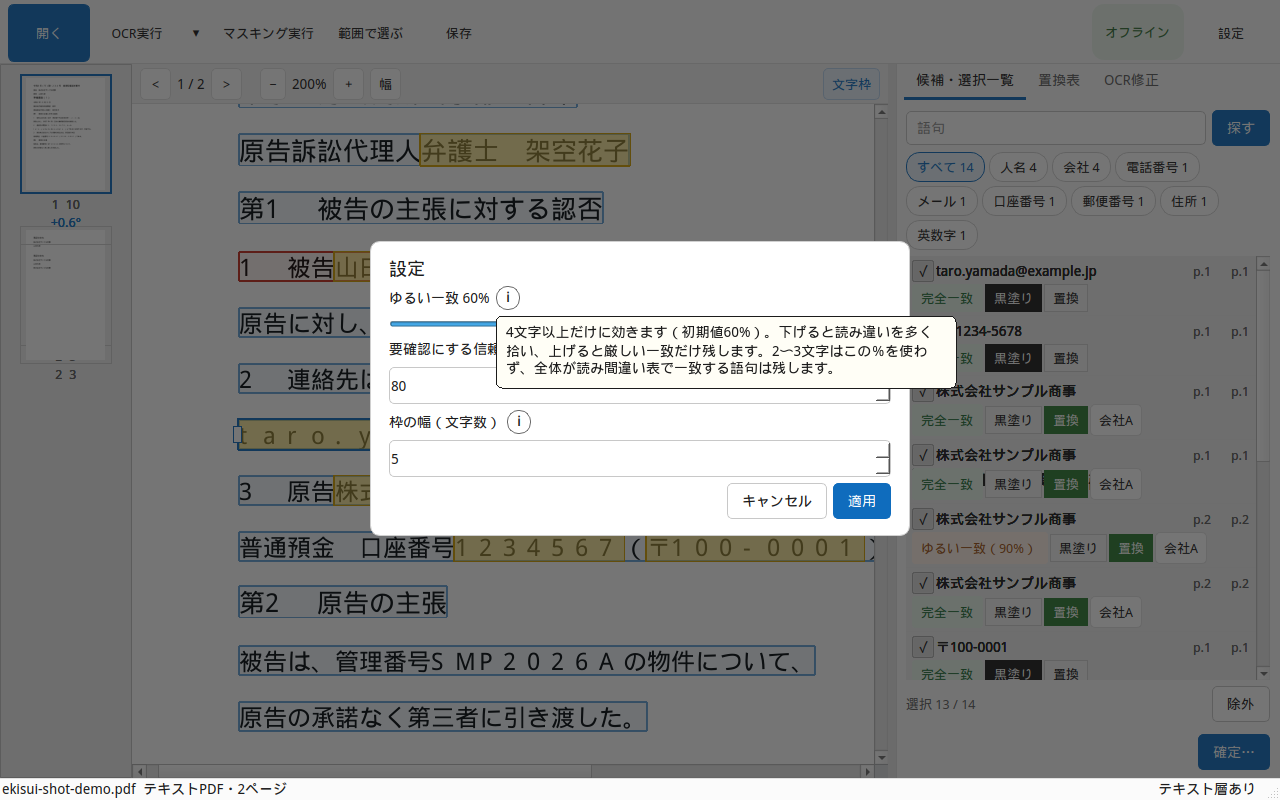
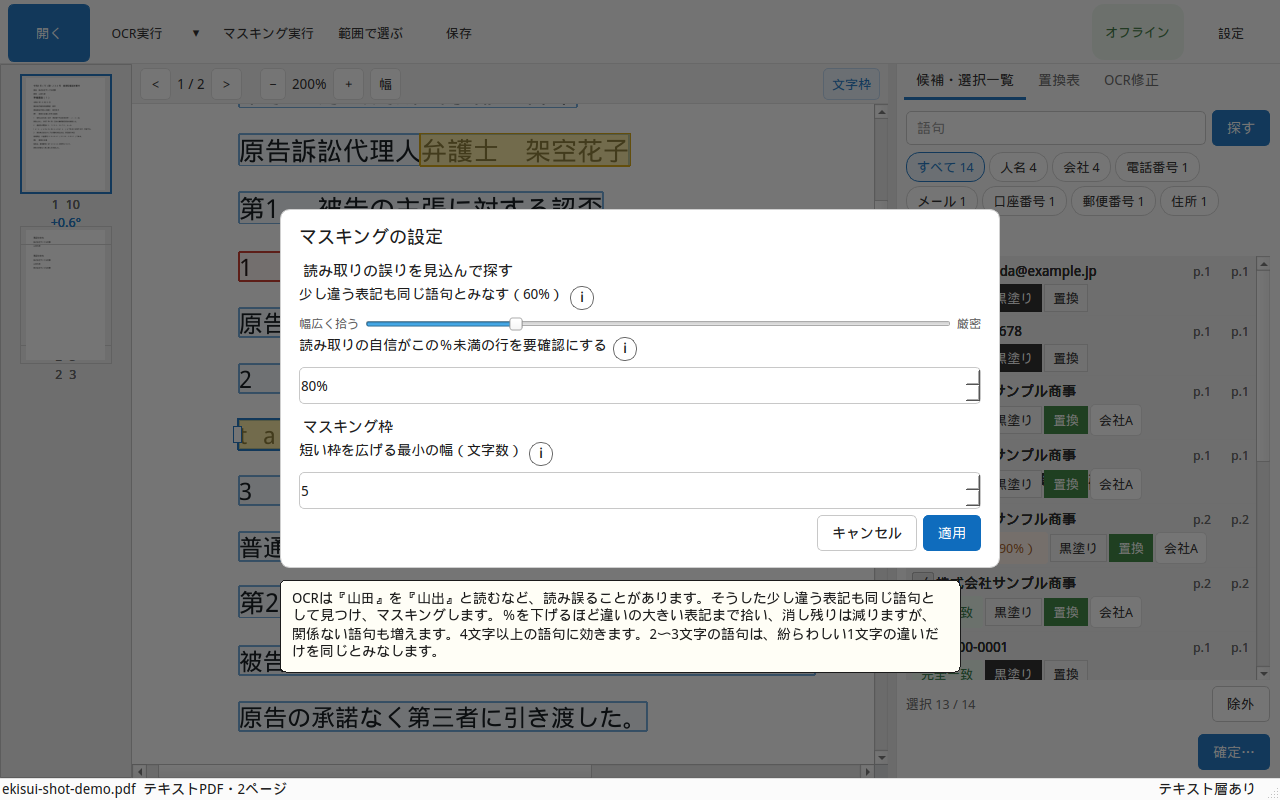
Reword the masking settings dialog.
Use the approved Japanese labels and tooltips, and keep the same
ranges and stored defaults. Widen the dialog so the longer lines fit.

Changed region(s): [[0.2188, 0.25, 0.7812, 0.8438]]

diff --git a/src/ekisui/gui/window.py b/src/ekisui/gui/window.py
@@ -22,6 +22,7 @@ from PySide6.QtWidgets import (
     QMessageBox,
     QPushButton,
     QScrollArea,
+    QSizePolicy,
     QSlider,
     QSpinBox,
     QSplitter,
@@ -54,6 +55,33 @@ from ekisui.pdf.wordconvert import convert_word_to_pdf
 from ekisui.pdf.export import export_pdf, redaction_boxes, unique_destination
 from ekisui.pdf.ocr_engine import PpOcrV5
 from ekisui.pdf.verify import VerifyReport, verify_pdf
+
+SETTINGS_TITLE = "マスキングの設定"
+SETTINGS_HEADING_READ = "読み取りの誤りを見込んで探す"
+SETTINGS_HEADING_BOX = "マスキング枠"
+SETTINGS_FUZZY_LOW = "幅広く拾う"
+SETTINGS_FUZZY_HIGH = "厳密"
+SETTINGS_REVIEW_LABEL = "読み取りの自信がこの％未満の行を要確認にする"
+SETTINGS_ALIGN_LABEL = "短い枠を広げる最小の幅（文字数）"
+SETTINGS_FUZZY_TIP = (
+    "OCRは『山田』を『山出』と読むなど、読み誤ることがあります。"
+    "そうした少し違う表記も同じ語句として見つけ、マスキングします。"
+    "％を下げるほど違いの大きい表記まで拾い、消し残りは減りますが、関係ない語句も増えます。"
+    "4文字以上の語句に効きます。2〜3文字の語句は、紛らわしい1文字の違いだけを同じとみなします。"
+)
+SETTINGS_REVIEW_TIP = "OCRの自信が低い行に赤い枠を付け、目で確かめる対象にします。数字を上げると要確認の行が増えます。手で直した行は対象外です。"
+SETTINGS_ALIGN_TIP = (
+    "短い語句の黒塗りや置換の枠を、この文字数まで広げます。"
+    "枠の長さから元の語句を推測されにくくするためです。長い枠は縮めません。"
+    "保存時の『枠の幅をそろえる』がオンのときに効きます。"
+)
+SETTINGS_BUTTON_TIP = "マスキングの設定です。読み取りの誤りがあっても同じ語句を見つける度合いと、枠の幅を変えます。"
+_DIALOG_WIDTH = 540
+_SETTINGS_DIALOG_WIDTH = 720
+
+
+def fuzzy_caption(value: int) -> str:
+    return f"少し違う表記も同じ語句とみなす（{value}%）"
 
 
 def _mark(widget: QWidget, kind: str) -> QWidget:
@@ -266,7 +294,8 @@ class MainWindow(QMainWindow):
         offline.setObjectName("offline")
         offline.setToolTip("外部とは通信しません。読み取りもマスキングもこのPCの中で行います。")
         layout.addWidget(offline)
-        settings = self._tool("設定", "一致の厳しさや、マスキング枠の幅を変えます。", self._open_settings)
+        settings = self._tool("設定", SETTINGS_BUTTON_TIP, self._open_settings)
+        self.btn_settings = settings
         layout.addWidget(settings)
         self.ocr_pop = QFrame(self.centralWidget())
         self.ocr_pop.setObjectName("pop")
@@ -367,7 +396,7 @@ class MainWindow(QMainWindow):
         shade_layout.setAlignment(Qt.AlignmentFlag.AlignCenter)
         self.dialog = QFrame()
         self.dialog.setObjectName("dialog")
-        self.dialog.setFixedWidth(540)
+        self.dialog.setFixedWidth(_DIALOG_WIDTH)
         self.dialog.setMaximumHeight(640)
         self.dialog_layout = QVBoxLayout(self.dialog)
         self.dialog_layout.setContentsMargins(18, 16, 18, 16)
@@ -1618,21 +1647,28 @@ class MainWindow(QMainWindow):
     def _open_settings(self) -> None:
         current = self.session.settings if self.session else self.settings
         self._clear_dialog()
-        title = QLabel("設定")
+        self.dialog.setFixedWidth(_SETTINGS_DIALOG_WIDTH)
+        self.dialog.setMaximumHeight(760)
+        title = QLabel(SETTINGS_TITLE)
         title.setStyleSheet("font-size: 18px; font-weight: 600;")
+        title.setWordWrap(True)
         self.fuzzy = QSlider(Qt.Orientation.Horizontal)
         self.fuzzy.setRange(50, 90)
         self.fuzzy.setValue(round(current.fuzzy_threshold * 100))
-        self.fuzzy_label = QLabel(f"ゆるい一致 {self.fuzzy.value()}%")
-        self.fuzzy.valueChanged.connect(lambda value: self.fuzzy_label.setText(f"ゆるい一致 {value}%"))
+        self.fuzzy_label = QLabel(fuzzy_caption(self.fuzzy.value()))
+        self.fuzzy_label.setWordWrap(True)
+        self.fuzzy.valueChanged.connect(lambda value: self.fuzzy_label.setText(fuzzy_caption(value)))
         self.review = QSpinBox()
         self.review.setRange(50, 99)
+        self.review.setSuffix("%")
         self.review.setValue(round(current.review_below * 100))
-        self.review_label = QLabel("要確認にする信頼度（%）")
+        self.review_label = QLabel(SETTINGS_REVIEW_LABEL)
+        self.review_label.setWordWrap(True)
         self.align = QSpinBox()
         self.align.setRange(1, 12)
         self.align.setValue(current.align_chars)
-        self.align_label = QLabel("枠の幅（文字数）")
+        self.align_label = QLabel(SETTINGS_ALIGN_LABEL)
+        self.align_label.setWordWrap(True)
         buttons = QHBoxLayout()
         cancel = QPushButton("キャンセル")
         _mark(cancel, "btn")
@@ -1643,36 +1679,70 @@ class MainWindow(QMainWindow):
         buttons.addStretch(1)
         buttons.addWidget(cancel)
         buttons.addWidget(apply)
+        read_heading = self._settings_heading(SETTINGS_HEADING_READ)
+        box_heading = self._settings_heading(SETTINGS_HEADING_BOX)
         self.dialog_layout.addWidget(title)
-        self.dialog_layout.addWidget(self._info_row(
-            self.fuzzy_label,
-            "4文字以上だけに効きます（初期値60%）。下げると読み違いを多く拾い、上げると厳しい一致だけ残します。2〜3文字はこの％を使わず、全体が読み間違い表で一致する語句は残します。",
-        ))
-        self.dialog_layout.addWidget(self.fuzzy)
-        self.dialog_layout.addWidget(self._info_row(
-            self.review_label,
-            "この％未満の読み取り行を要確認にします（初期値80%）。上げると多くの行が対象になり、下げると自信のない行だけです。手で直した行は対象外です。",
-        ))
+        self.dialog_layout.addWidget(read_heading)
+        self.dialog_layout.addWidget(self._info_row(self.fuzzy_label, SETTINGS_FUZZY_TIP))
+        self.dialog_layout.addWidget(self._fuzzy_scale())
+        self.dialog_layout.addWidget(self._info_row(self.review_label, SETTINGS_REVIEW_TIP))
         self.dialog_layout.addWidget(self.review)
-        self.dialog_layout.addWidget(self._info_row(
-            self.align_label,
-            "短いマスキング枠の最小の幅です（初期値5文字）。上げると元の長さが分かりにくくなり、下げると実際の長さに近づきます。もともと広い枠は縮みません。",
-        ))
+        self.dialog_layout.addWidget(box_heading)
+        self.dialog_layout.addWidget(self._info_row(self.align_label, SETTINGS_ALIGN_TIP))
         self.dialog_layout.addWidget(self.align)
         self.dialog_layout.addLayout(buttons)
+        content_width = _SETTINGS_DIALOG_WIDTH - 36 - 22 - 16
+        for label in (title, read_heading, box_heading):
+            self._fit_wrapped(label, _SETTINGS_DIALOG_WIDTH - 36)
+        for label in (self.fuzzy_label, self.review_label, self.align_label):
+            self._fit_wrapped(label, content_width)
         self._show_shade()
+
+    def _settings_heading(self, text: str) -> QLabel:
+        label = QLabel(text)
+        label.setWordWrap(True)
+        label.setStyleSheet("font-size: 15px; font-weight: 600; padding-top: 8px;")
+        return label
+
+    def _fuzzy_scale(self) -> QWidget:
+        row = QWidget()
+        layout = QHBoxLayout(row)
+        layout.setContentsMargins(0, 0, 0, 0)
+        low = QLabel(SETTINGS_FUZZY_LOW)
+        high = QLabel(SETTINGS_FUZZY_HIGH)
+        for caption in (low, high):
+            caption.setStyleSheet("color: #5c5c5c; font-size: 12px;")
+            caption.setSizePolicy(QSizePolicy.Policy.Fixed, QSizePolicy.Policy.Preferred)
+        self.fuzzy.setSizePolicy(QSizePolicy.Policy.Expanding, QSizePolicy.Policy.Fixed)
+        layout.addWidget(low)
+        layout.addWidget(self.fuzzy, 1)
+        layout.addWidget(high)
+        return row
+
+    def _fit_wrapped(self, label: QLabel, width: int) -> None:
+        metrics = label.fontMetrics()
+        single = metrics.horizontalAdvance(label.text())
+        if single <= width:
+            label.setMinimumWidth(single)
+            label.setMinimumHeight(metrics.height())
+            return
+        label.setMinimumWidth(width)
+        rect = metrics.boundingRect(0, 0, max(width, 1), 2000, int(Qt.TextFlag.TextWordWrap), label.text())
+        label.setMinimumHeight(max(rect.height(), metrics.height()))
 
     def _info_row(self, label: QLabel, tip: str) -> QWidget:
         row = QWidget()
         layout = QHBoxLayout(row)
         layout.setContentsMargins(0, 0, 0, 0)
+        label.setWordWrap(True)
+        label.setSizePolicy(QSizePolicy.Policy.Preferred, QSizePolicy.Policy.Minimum)
         info = QPushButton("i")
         info.setObjectName("info")
         info.setToolTip(tip)
         info.setCursor(Qt.CursorShape.PointingHandCursor)
         info.clicked.connect(lambda _checked=False, button=info, text=tip: QToolTip.showText(button.mapToGlobal(QPoint(0, button.height())), text, button))
-        layout.addWidget(label)
-        layout.addWidget(info)
+        layout.addWidget(label, 0, Qt.AlignmentFlag.AlignTop)
+        layout.addWidget(info, 0, Qt.AlignmentFlag.AlignTop)
         layout.addStretch(1)
         return row
 
@@ -1690,6 +1760,8 @@ class MainWindow(QMainWindow):
         self.refresh()
 
     def _clear_dialog(self) -> None:
+        self.dialog.setFixedWidth(_DIALOG_WIDTH)
+        self.dialog.setMaximumHeight(640)
         self._discard_layout(self.dialog_layout)
 
     def _discard_layout(self, layout) -> None:

diff --git a/tests/test_settings_dialog.py b/tests/test_settings_dialog.py
@@ -1,0 +1,139 @@
+"""Settings dialog wording. Ranges and stored values stay the same."""
+
+import os
+
+os.environ.setdefault("QT_QPA_PLATFORM", "offscreen")
+os.environ.setdefault("HF_HUB_OFFLINE", "1")
+
+from PySide6.QtCore import QPoint, Qt
+from PySide6.QtWidgets import QApplication, QLabel, QPushButton
+
+from ekisui.domain.types import Settings
+from ekisui.gui.window import (
+    SETTINGS_ALIGN_LABEL,
+    SETTINGS_ALIGN_TIP,
+    SETTINGS_BUTTON_TIP,
+    SETTINGS_FUZZY_HIGH,
+    SETTINGS_FUZZY_LOW,
+    SETTINGS_FUZZY_TIP,
+    SETTINGS_HEADING_BOX,
+    SETTINGS_HEADING_READ,
+    SETTINGS_REVIEW_LABEL,
+    SETTINGS_REVIEW_TIP,
+    SETTINGS_TITLE,
+    MainWindow,
+    fuzzy_caption,
+)
+
+
+def _labels(window: MainWindow) -> dict[str, QLabel]:
+    found = {}
+    for label in window.dialog.findChildren(QLabel):
+        found[label.text()] = label
+    return found
+
+
+def _assert_fully_visible(window: MainWindow, label: QLabel) -> None:
+    rect = label.fontMetrics().boundingRect(
+        0,
+        0,
+        max(label.width(), 1),
+        4000,
+        int(Qt.TextFlag.TextWordWrap),
+        label.text(),
+    )
+    assert label.height() + 2 >= rect.height(), (label.text(), label.width(), label.height(), rect.height())
+    origin = label.mapTo(window.dialog, QPoint(0, 0))
+    assert origin.x() >= 0
+    assert origin.y() >= 0
+    assert origin.x() + label.width() <= window.dialog.width() + 1
+    assert origin.y() + label.height() <= window.dialog.height() + 1
+
+
+def test_settings_dialog_wording_keeps_ranges_and_values() -> None:
+    app = QApplication.instance() or QApplication([])
+    window = MainWindow()
+    window.resize(1280, 800)
+    window.show()
+    app.processEvents()
+    assert window.btn_settings.toolTip() == SETTINGS_BUTTON_TIP
+    assert window.settings == Settings()
+
+    window._open_settings()
+    app.processEvents()
+    labels = _labels(window)
+    assert labels[SETTINGS_TITLE].text() == "マスキングの設定"
+    assert labels[SETTINGS_HEADING_READ].text() == "読み取りの誤りを見込んで探す"
+    assert labels[SETTINGS_HEADING_BOX].text() == "マスキング枠"
+    assert labels[fuzzy_caption(60)].text() == "少し違う表記も同じ語句とみなす（60%）"
+    assert labels[SETTINGS_FUZZY_LOW].text() == "幅広く拾う"
+    assert labels[SETTINGS_FUZZY_HIGH].text() == "厳密"
+    assert labels[SETTINGS_REVIEW_LABEL].text() == "読み取りの自信がこの％未満の行を要確認にする"
+    assert labels[SETTINGS_ALIGN_LABEL].text() == "短い枠を広げる最小の幅（文字数）"
+    tips = [button.toolTip() for button in window.dialog.findChildren(QPushButton) if button.objectName() == "info"]
+    assert tips == [SETTINGS_FUZZY_TIP, SETTINGS_REVIEW_TIP, SETTINGS_ALIGN_TIP]
+    assert SETTINGS_FUZZY_TIP == (
+        "OCRは『山田』を『山出』と読むなど、読み誤ることがあります。"
+        "そうした少し違う表記も同じ語句として見つけ、マスキングします。"
+        "％を下げるほど違いの大きい表記まで拾い、消し残りは減りますが、関係ない語句も増えます。"
+        "4文字以上の語句に効きます。2〜3文字の語句は、紛らわしい1文字の違いだけを同じとみなします。"
+    )
+    assert SETTINGS_REVIEW_TIP == "OCRの自信が低い行に赤い枠を付け、目で確かめる対象にします。数字を上げると要確認の行が増えます。手で直した行は対象外です。"
+    assert SETTINGS_ALIGN_TIP == (
+        "短い語句の黒塗りや置換の枠を、この文字数まで広げます。"
+        "枠の長さから元の語句を推測されにくくするためです。長い枠は縮めません。"
+        "保存時の『枠の幅をそろえる』がオンのときに効きます。"
+    )
+    assert SETTINGS_BUTTON_TIP == "マスキングの設定です。読み取りの誤りがあっても同じ語句を見つける度合いと、枠の幅を変えます。"
+    assert window.fuzzy.minimum() == 50
+    assert window.fuzzy.maximum() == 90
+    assert window.fuzzy.value() == 60
+    assert window.review.minimum() == 50
+    assert window.review.maximum() == 99
+    assert window.review.value() == 80
+    assert window.review.suffix() == "%"
+    assert window.align.minimum() == 1
+    assert window.align.maximum() == 12
+    assert window.align.value() == 5
+    assert window.dialog.width() == 720
+    low = labels[SETTINGS_FUZZY_LOW]
+    high = labels[SETTINGS_FUZZY_HIGH]
+    assert low.mapTo(window.dialog, QPoint(0, 0)).x() < window.fuzzy.mapTo(window.dialog, QPoint(0, 0)).x()
+    assert window.fuzzy.mapTo(window.dialog, QPoint(window.fuzzy.width(), 0)).x() <= high.mapTo(window.dialog, QPoint(0, 0)).x()
+    for text in (
+        SETTINGS_TITLE,
+        SETTINGS_HEADING_READ,
+        SETTINGS_HEADING_BOX,
+        fuzzy_caption(60),
+        SETTINGS_FUZZY_LOW,
+        SETTINGS_FUZZY_HIGH,
+        SETTINGS_REVIEW_LABEL,
+        SETTINGS_ALIGN_LABEL,
+    ):
+        _assert_fully_visible(window, labels[text])
+
+    window.fuzzy.setValue(50)
+    assert window.fuzzy_label.text() == "少し違う表記も同じ語句とみなす（50%）"
+    window.fuzzy.setValue(90)
+    assert window.fuzzy_label.text() == "少し違う表記も同じ語句とみなす（90%）"
+    window.fuzzy.setValue(70)
+    window.review.setValue(91)
+    window.align.setValue(8)
+    window._apply_settings()
+    assert window.settings.fuzzy_threshold == 0.70
+    assert window.settings.review_below == 0.91
+    assert window.settings.align_chars == 8
+    assert window.settings.deskew is True
+    assert window.settings.ocr_dpi == 200
+
+    window._open_settings()
+    app.processEvents()
+    assert window.fuzzy.value() == 70
+    assert window.review.value() == 91
+    assert window.align.value() == 8
+    assert window.fuzzy_label.text() == fuzzy_caption(70)
+    window.shade.hide()
+    window._clear_dialog()
+    assert window.dialog.width() == 540
+    window.close()
+    app.processEvents()

diff --git a/tools/screenshot_ui.py b/tools/screenshot_ui.py
@@ -14,12 +14,12 @@ sys.path.insert(0, str(ROOT / "src"))
 
 import pymupdf  # noqa: E402
 from PySide6.QtCore import QPoint, Qt  # noqa: E402
-from PySide6.QtGui import QColor, QFont, QFontDatabase, QPainter, QPen  # noqa: E402
+from PySide6.QtGui import QColor, QFont, QFontDatabase, QFontMetrics, QPainter, QPen  # noqa: E402
 from PySide6.QtWidgets import QApplication, QPushButton  # noqa: E402
 
 from ekisui.domain.types import TextLine, TextSource  # noqa: E402
 from ekisui.gui.theme import QSS  # noqa: E402
-from ekisui.gui.window import MainWindow  # noqa: E402
+from ekisui.gui.window import SETTINGS_FUZZY_TIP, MainWindow  # noqa: E402
 from ekisui.pdf.verify import verify_pdf  # noqa: E402
 from dataclasses import replace  # noqa: E402
 
@@ -177,20 +177,38 @@ def main() -> None:
     window._open_settings()
     QApplication.processEvents()
     info = next(button for button in window.shade.findChildren(QPushButton) if button.objectName() == "info")
+    text = info.toolTip()
+    if text != SETTINGS_FUZZY_TIP:
+        raise SystemExit("settings tooltip is not the fuzzy-match wording")
     shot = window.grab()
-    anchor = info.mapTo(window, QPoint(0, info.height() + 6))
     painter = QPainter(shot)
     painter.setPen(QPen(QColor("#1b1b1b")))
     painter.setBrush(QColor("#fffef6"))
-    text = info.toolTip()
-    rect_width = 460
-    rect_height = 72
-    painter.drawRoundedRect(anchor.x(), anchor.y(), rect_width, rect_height, 6, 6)
+    font = QFont(painter.font())
+    font.setPixelSize(14)
+    painter.setFont(font)
+    metrics = QFontMetrics(font)
+    rect_width = min(680, shot.width() - 24)
+    bounds = metrics.boundingRect(
+        0,
+        0,
+        rect_width - 24,
+        2000,
+        int(Qt.AlignmentFlag.AlignLeft | Qt.TextFlag.TextWordWrap),
+        text,
+    )
+    rect_height = bounds.height() + 22
+    dialog_origin = window.dialog.mapTo(window, QPoint(0, 0))
+    x = max(12, min(dialog_origin.x(), shot.width() - rect_width - 12))
+    y = dialog_origin.y() + window.dialog.height() + 12
+    if y + rect_height > shot.height() - 12:
+        y = max(12, shot.height() - rect_height - 12)
+    painter.drawRoundedRect(x, y, rect_width, rect_height, 6, 6)
     painter.drawText(
-        anchor.x() + 10,
-        anchor.y() + 8,
-        rect_width - 20,
-        rect_height - 16,
+        x + 12,
+        y + 10,
+        rect_width - 24,
+        rect_height - 18,
         int(Qt.AlignmentFlag.AlignLeft | Qt.TextFlag.TextWordWrap),
         text,
     )
